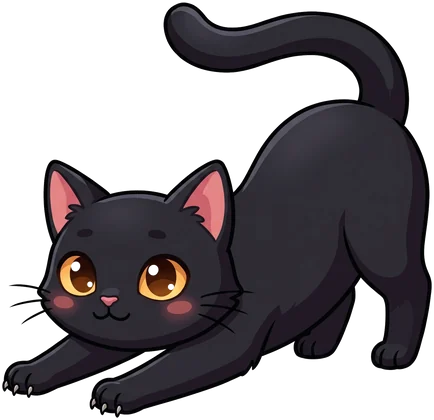
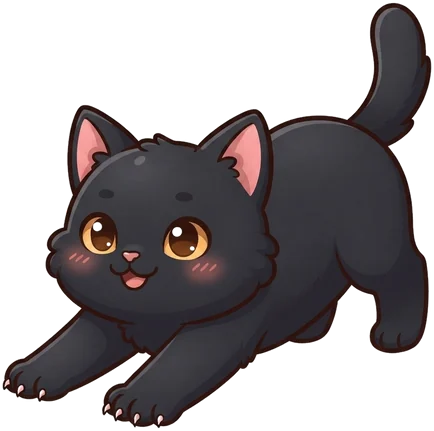
更新貓咪動作立繪：4 品種 × 10 動作（比例貼齊原圖）

diff --git a/sw.js b/sw.js
@@ -1,7 +1,7 @@
 /* 貓咪邏輯謎題 Service Worker：App Shell + 離線可玩。
  * 同源資源採網路優先、離線退回快取。 */
 const PREFIX='meowdoku';
-const SHELL=`${PREFIX}-shell-v52`;
+const SHELL=`${PREFIX}-shell-v53`;
 const APP_SHELL=[
   './',
   './index.html',
